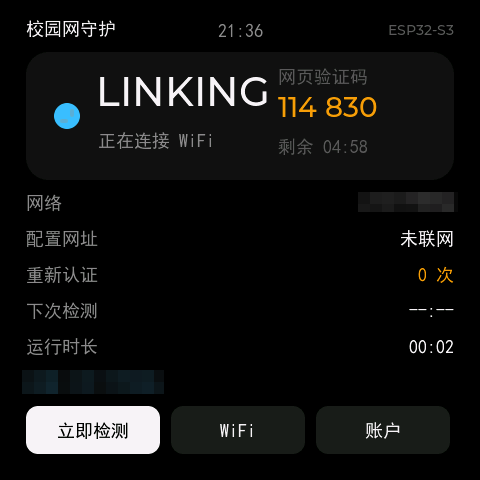
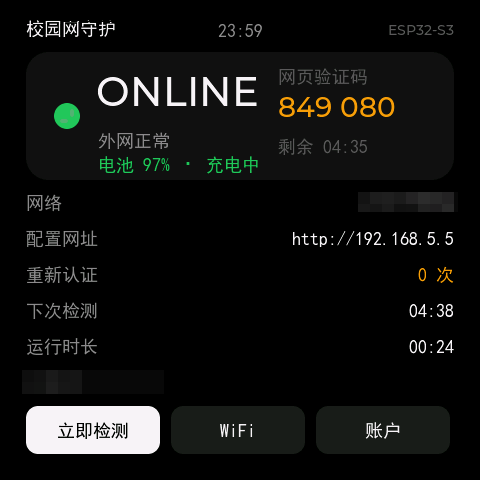
fix(ui): 抓图改成异步，不再冻住界面；截图更新为联网后的状态
之前整屏 hex 直接在 lv_timer 回调里往串口发，一屏要 90 秒，期间 LVGL 任务
被完全占住 —— 表现就是时钟和倒计时都不走、熄屏被推迟，看着像固件坏了。

- ui.c: LVGL 线程只做快照（几十毫秒），发送交给独立的 fbdump 任务；
  加 s_dump_busy 防重入
- 快照前先 lv_refr_now + 30ms：修偶发的 assert failed: spi_device_release_bus
  （快照渲染与在途 QSPI 刷新撞车，会直接把板子复位、整个抓图序列报废）
- 主页抓图从开机 3 秒延后到 30 秒，拍的是联网+校时之后的正常状态，
  而不是 LINKING / 未联网 / 运行时长 00:02
- docs/images: 01/02/03/04 按新界面重抓重打码（05_add 与 06_web 未受影响）
- README: 补一条 WARNING 说明抓图版本会自己翻页、以及为什么不再冻结

diff --git a/main/ui.c b/main/ui.c
@@ -292,24 +292,17 @@ static void snapshot_probe(lv_timer_t *t)
  * 只在 APP_UI_DUMP_FB=1 时编译。
  */
 #if APP_UI_DUMP_FB
-static void dump_fb_now(void)
+/* 串口发送部分单独跑在任务里。
+ *
+ * 为什么拆：整屏 480x480 要传 ~1MB，按 USB CDC 的实际吞吐要 90 秒以上。
+ * 如果直接在 lv_timer 回调里发，LVGL 任务会被占住这么久——表现就是界面冻住、
+ * 时钟和倒计时都不走、连熄屏都推迟（第一次抓 README 截图时就踩过）。
+ * 现在 LVGL 线程只做一次快照（几十毫秒），发送交给下面这个任务。 */
+static bool s_dump_busy;
+
+static void dump_writer_task(void *arg)
 {
-    ESP_LOGI(TAG, "dump framebuffer start");
-    /* 必须先建缓冲再自己清零：lv_snapshot_take() 不保证缓冲区初始化，
-     * 拿到的是未清零的堆内存（实测整屏 0xf7be），画出来的图完全是假的。 */
-    lv_draw_buf_t *snap =
-        lv_snapshot_create_draw_buf(lv_screen_active(), LV_COLOR_FORMAT_RGB565);
-    if (snap == NULL) {
-        ESP_LOGW(TAG, "snapshot buffer alloc failed");
-        return;
-    }
-    memset(snap->data, 0, snap->data_size);
-    if (lv_snapshot_take_to_draw_buf(lv_screen_active(), LV_COLOR_FORMAT_RGB565, snap) !=
-        LV_RESULT_OK) {
-        ESP_LOGW(TAG, "snapshot failed");
-        lv_draw_buf_destroy(snap);
-        return;
-    }
+    lv_draw_buf_t *snap = (lv_draw_buf_t *)arg;
 
     const uint16_t *px = (const uint16_t *)snap->data;
     const uint32_t stride = snap->header.stride / 2;
@@ -374,6 +367,48 @@ static void dump_fb_now(void)
     fflush(stdout);
 
     lv_draw_buf_destroy(snap);
+    s_dump_busy = false;
+    vTaskDelete(NULL);
+}
+
+/* 在 LVGL 线程里只做快照，几十毫秒就返回 */
+static void dump_fb_now(void)
+{
+    if (s_dump_busy) {
+        ESP_LOGW(TAG, "previous dump still running, skip");
+        return;
+    }
+
+    /* 抓图前先逼一次刷新：快照会触发一次离屏渲染，如果此时面板的 QSPI 刷新
+     * 还在传输中，两层 SPI 事务会撞在一起，实测偶发
+     * `assert failed: spi_device_release_bus`（板子直接复位，一整个抓图序列报废）。
+     * lv_refr_now + 短暂等待能把在途的刷新收干净，之后再快照。 */
+    lv_refr_now(NULL);
+    vTaskDelay(pdMS_TO_TICKS(30));
+
+    /* 必须先建缓冲再自己清零：lv_snapshot_take() 不保证缓冲区初始化，
+     * 拿到的是未清零的堆内存（实测整屏 0xf7be），画出来的图完全是假的。 */
+    lv_draw_buf_t *snap =
+        lv_snapshot_create_draw_buf(lv_screen_active(), LV_COLOR_FORMAT_RGB565);
+    if (snap == NULL) {
+        ESP_LOGW(TAG, "snapshot buffer alloc failed");
+        return;
+    }
+    memset(snap->data, 0, snap->data_size);
+    if (lv_snapshot_take_to_draw_buf(lv_screen_active(), LV_COLOR_FORMAT_RGB565, snap) !=
+        LV_RESULT_OK) {
+        ESP_LOGW(TAG, "snapshot failed");
+        lv_draw_buf_destroy(snap);
+        return;
+    }
+
+    ESP_LOGI(TAG, "dump framebuffer start");
+    s_dump_busy = true;
+    if (xTaskCreate(dump_writer_task, "fbdump", 4096, snap, 4, NULL) != pdPASS) {
+        ESP_LOGE(TAG, "dump task create failed");
+        s_dump_busy = false;
+        lv_draw_buf_destroy(snap);
+    }
 }
 
 static void dump_fb(lv_timer_t *t)
@@ -518,17 +553,20 @@ void ui_create(lv_display_t *disp)
     /* 单屏 dump 实测：240x240 约 30s，480x480 约 95s（串口吞吐限制）。
      * 间隔必须大于一次 dump 的耗时，否则切屏和 dump 的定时器会在同一轮里
      * 连着触发，dump 抓到的是还没重绘的旧画面。 */
-    lv_timer_create(dump_fb, 3000, NULL);          /* 1 主页 */
-    lv_timer_create(cap_open_wifi, 118000, NULL);
-    lv_timer_create(dump_fb, 121000, NULL);        /* 2 选网 */
-    lv_timer_create(cap_open_acct, 236000, NULL);
-    lv_timer_create(dump_fb, 239000, NULL);        /* 3 账户 */
-    lv_timer_create(cap_open_pass, 354000, NULL);
-    lv_timer_create(dump_fb, 357000, NULL);        /* 4 输密码 */
-    lv_timer_create(cap_open_add, 472000, NULL);
-    lv_timer_create(dump_fb, 475000, NULL);        /* 5 添加账号 */
+    /* 主页那张必须等联网 + SNTP 都完成再抓，否则拍出来是「LINKING / 未联网 /
+     * 运行时长 00:02」，当 README 首图完全不像个成品。30 秒足够连上 WiFi、
+     * 拿到 IP、认证成功，后面的间隔按单张 dump 约 95 秒排。 */
+    lv_timer_create(dump_fb, 30000, NULL);         /* 1 主页（已联网） */
+    lv_timer_create(cap_open_wifi, 145000, NULL);
+    lv_timer_create(dump_fb, 148000, NULL);        /* 2 选网 */
+    lv_timer_create(cap_open_acct, 263000, NULL);
+    lv_timer_create(dump_fb, 266000, NULL);        /* 3 账户 */
+    lv_timer_create(cap_open_pass, 381000, NULL);
+    lv_timer_create(dump_fb, 384000, NULL);        /* 4 输密码 */
+    lv_timer_create(cap_open_add, 499000, NULL);
+    lv_timer_create(dump_fb, 502000, NULL);        /* 5 添加账号 */
 #else
-    lv_timer_create(dump_fb, 3000, NULL);
+    lv_timer_create(dump_fb, 30000, NULL);
 #endif
 #endif
 

diff --git a/README.md b/README.md
@@ -281,6 +281,15 @@ tools/
 > 而 PNG 要求每行定长——少一行会让解码器从这里开始错位、**整张图下半截全黑**，
 > 看着像截图被裁掉了。`fb2png.py` / `mask_dump.py` 都会补齐并打印 `padded N short row(s)`。
 
+> [!WARNING]
+> 打开 `APP_UI_DUMP_FB` 后板子会**自己每隔约 2 分钟翻一页**并往串口打显存，
+> 看起来像"界面在自己乱跳"，那是抓图序列，不是 bug。抓完记得把
+> `APP_UI_DUMP_FB` / `APP_UI_CAPTURE_SETUP` 改回 0。
+>
+> 另外这版曾经把整屏 hex 直接在 LVGL 定时器里发送，一屏要 90 秒，
+> 期间**时钟和倒计时全冻住、熄屏也被推迟**——所以现在拆成了「LVGL 线程只做快照
+> （几十毫秒）+ 独立任务慢慢发串口」，抓图时界面照常能动。
+
 改界面文案后必须重新生成字体（LVGL 自带 CJK 字体缺「网/认/证/检/测」等简体字）：
 
 ```powershell
